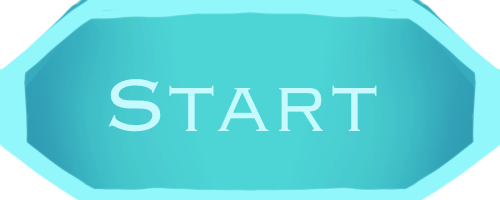
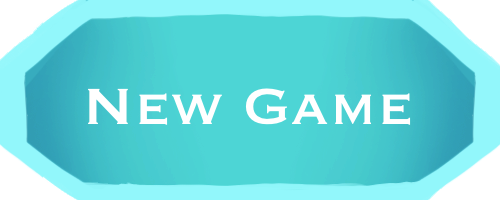
New game/continue

diff --git a/src/routes/+page.svelte b/src/routes/+page.svelte
@@ -4,6 +4,9 @@
     import { onMount } from "svelte";
     import startButtonImg from "$lib/gui_assets/start.png";
     import logo from "$lib/gui_assets/scrap_fleet_logo.png";
+    import continueButton from "$lib/gui_assets/continueGame.png";
+
+    let saveFileEmpty = true;
 
     onMount(() => {
         if (!localStorage.getItem("shipStr")) {
@@ -16,6 +19,9 @@
                 ".......\n" +
                 ".......\n"
             );
+        }
+        else {
+            saveFileEmpty = false;
         }
         if (!localStorage.getItem("inventory")) {
             localStorage.setItem("inventory", JSON.stringify({
@@ -36,15 +42,16 @@
     <div class="centered" style:text-align="center">
         <img src={logo} alt="SCRAP FLEET" width={400} />
         <br />
-        <input type="image" on:click={() => { goto("./builder"); }}
-            src={startButtonImg} alt="START" style:width="200px" />
+        {#if !saveFileEmpty}
+            <input type="image" on:click={() => { goto("./builder"); }}
+                src={continueButton} alt="CONTINUE GAME" style:width="200px" />
+        {/if}
         <br /> <br />
-        <button on:click={() => {
-            if (confirm("you sure?")) {
+        <input type="image" on:click={() => {
                 localStorage.clear();
-                location.reload();
-            }
-        }}>Reset game data</button>
+                goto("./builder");
+            }}
+            src={startButtonImg} alt="NEW GAME" style:width="200px" />
     </div>
 </div>
 

diff --git a/src/routes/builder/+page.svelte b/src/routes/builder/+page.svelte
@@ -19,13 +19,14 @@
         "T": `url("${thrusterSprite}")`,
     };
     
-    let shipStr = ".......\n" +
-    "..###..\n" +
-    "...#...\n" +
-    "..###..\n" +
-    "...#...\n" +
-    "..###..\n" +
-    ".......";
+    let shipStr = 
+        ".......\n" +
+        ".......\n" +
+        "...G...\n" +
+        "..BCR..\n" +
+        "...T...\n" +
+        ".......\n" +
+        ".......\n";
     let shipArr = [];
     
     function getShipArr() {
@@ -63,11 +64,11 @@
     });
 
     let inventory = {
-        "B": 5,
+        "B": 0,
         "C": 0,
-        "G": 2,
-        "R": 2,
-        "T": 2,
+        "G": 0,
+        "R": 0,
+        "T": 0,
     }
     let selectedTile = "B";
 </script>

diff --git a/src/routes/arena/+page.svelte b/src/routes/arena/+page.svelte
@@ -182,6 +182,7 @@
         if (localStorage.getItem("levelOn")) {
             levelOn = parseFloat(localStorage.getItem("levelOn"));
         }
+        else levelOn = 1;
         if (localStorage.getItem("inventory")) {
             inventory = JSON.parse(localStorage.getItem("inventory"));
         }
